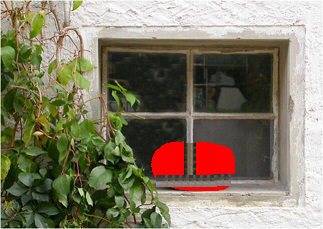
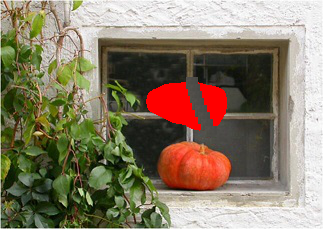
sigma取值的修改

Changed region(s): [[0.4644, 0.6114, 0.743, 0.8559], [0.4334, 0.3362, 0.7121, 0.5808]]

diff --git a/Image_inpainting/Image_inpainting/Texture_Propagation.cpp b/Image_inpainting/Image_inpainting/Texture_Propagation.cpp
@@ -185,7 +185,7 @@ void Texture_Propagation::cal_level_map(int area_index)
 
 	random_device rd;
 	mt19937 gen(rd());
-	uniform_real_distribution<> rand(0, sigma);
+	uniform_real_distribution<> rand(0, sigma/4);//这里偏差大了，改小一些
 	for (int i = 0; i < rows; i++) {
 		for (int j = 0; j < cols; j++) {
 			if (ifpartition) {
@@ -196,7 +196,8 @@ void Texture_Propagation::cal_level_map(int area_index)
 				level_map[i][j] = 0;
 			}
 			else {
-				level_map[i][j] = confidence_map[i][j] + rand(gen);
+				float biais = rand(gen);
+				level_map[i][j] = confidence_map[i][j] + biais;
 			}
 		}
 	}
